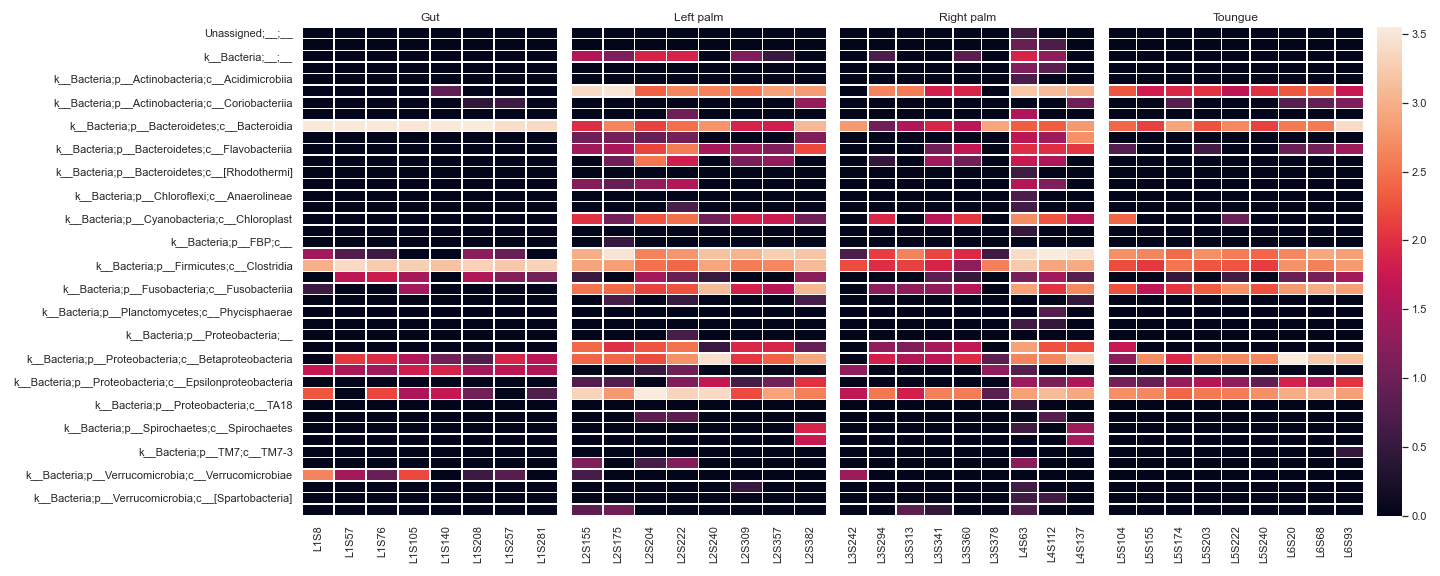
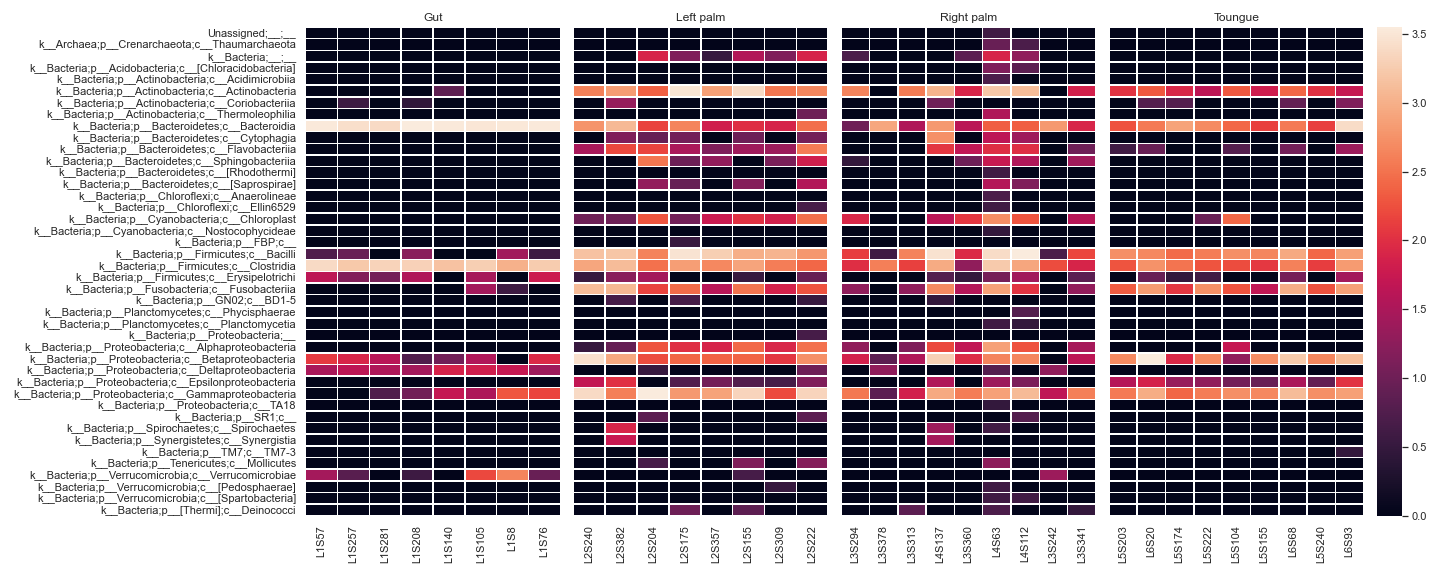
Update API

diff --git a/dokdo/api/clustermap.py b/dokdo/api/clustermap.py
@@ -116,26 +116,24 @@ def heatmap(
 
     .. code:: python3
 
+        metadata_file = '/Users/sbslee/Desktop/dokdo/data/moving-pictures-tutorial/sample-metadata.tsv'
+
         fig, [ax1, ax2, ax3, ax4, ax5] = plt.subplots(1, 5,
                                                       figsize=(20, 8),
                                                       gridspec_kw={'width_ratios': [1, 1, 1, 1, 0.1]})
 
-        qza_file = '/Users/sbslee/Desktop/dokdo/data/moving-pictures-tutorial/table-l3.qza'
-
-        gut_samples = ['L1S8', 'L1S57', 'L1S76', 'L1S105', 'L1S140', 'L1S208', 'L1S257', 'L1S281']
-        left_palm_samples = ['L2S155', 'L2S175', 'L2S204', 'L2S222', 'L2S240', 'L2S309', 'L2S357', 'L2S382']
-        right_palm_samples = ['L3S242', 'L3S294', 'L3S313', 'L3S341', 'L3S360', 'L3S378', 'L4S63', 'L4S112', 'L4S137']
-        tongue_sampels = ['L5S104', 'L5S155', 'L5S174', 'L5S203', 'L5S222', 'L5S240', 'L6S20', 'L6S68', 'L6S93']
-
         kwargs = dict(normalize='log10',
                       flip=True,
                       linewidths=0.5,
+                      metadata=metadata_file,
                       xticklabels=True)
 
-        dokdo.heatmap(qza_file, ax=ax1, samples=gut_samples, cbar=False, **kwargs)
-        dokdo.heatmap(qza_file, ax=ax2, samples=left_palm_samples, yticklabels=False, cbar=False, **kwargs)
-        dokdo.heatmap(qza_file, ax=ax3, samples=right_palm_samples, yticklabels=False, cbar=False, **kwargs)
-        dokdo.heatmap(qza_file, ax=ax4, samples=tongue_sampels, yticklabels=False, cbar_ax=ax5, **kwargs)
+        qza_file = '/Users/sbslee/Desktop/dokdo/data/moving-pictures-tutorial/table-l3.qza'
+
+        dokdo.heatmap(qza_file, ax=ax1, where="[body-site] IN ('gut')", cbar=False, yticklabels=True, **kwargs)
+        dokdo.heatmap(qza_file, ax=ax2, where="[body-site] IN ('left palm')", yticklabels=False, cbar=False, **kwargs)
+        dokdo.heatmap(qza_file, ax=ax3, where="[body-site] IN ('right palm')", yticklabels=False, cbar=False, **kwargs)
+        dokdo.heatmap(qza_file, ax=ax4, where="[body-site] IN ('tongue')", yticklabels=False, cbar_ax=ax5, **kwargs)
 
         ax1.set_title('Gut')
         ax2.set_title('Left palm')
@@ -143,7 +141,6 @@ def heatmap(
         ax4.set_title('Toungue')
 
         plt.tight_layout()
-        plt.savefig('heatmap-2.png')
 
     .. image:: images/heatmap-2.png
     """
